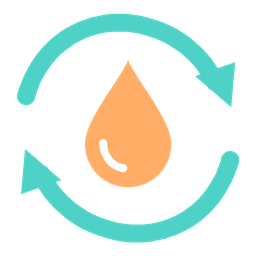
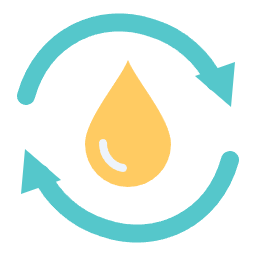
Match circulation branding and UI colors to EOS palette

diff --git a/frontend/src/assets/styles/panel.css b/frontend/src/assets/styles/panel.css
@@ -29,48 +29,6 @@
 
 .app-shell {
   font-family: Inter, "Segoe UI", Arial, sans-serif;
-  color-scheme: light;
-  --bg: #f4f6f5;
-  --surface: #fff;
-  --soft: #f7f9f8;
-  --ink: #20332f;
-  --muted: #6d7d76;
-  --line: #e3e9e6;
-  --accent: #25796b;
-  --accent-soft: #eaf4ef;
-  --orange: #bd7840;
-  --orange-soft: #fcf1e5;
-  --heat0: #edf1ee;
-  --heat1: #dbe8e0;
-  --heat2: #b8d4c3;
-  --heat3: #7fb59b;
-  --heat4: #41866e;
-  --heat5: #22644e;
-  --header: rgba(255, 255, 255, .97)
-}
-
-.app-shell[data-theme=dark] {
-  color-scheme: dark;
-  --bg: #111419;
-  --surface: #1a1e25;
-  --soft: #20252d;
-  --ink: #e8edf3;
-  --muted: #a1aab7;
-  --line: #303640;
-  --accent: #83b7d5;
-  --accent-soft: #223442;
-  --orange: #ecb47d;
-  --orange-soft: #392e23;
-  --heat0: #23382f;
-  --heat1: #2b4939;
-  --heat2: #3c664c;
-  --heat3: #508a66;
-  --heat4: #72ad87;
-  --heat5: #a0cead;
-  --header: rgba(26, 30, 37, .97)
-}
-
-.app-shell {
   display: flex;
   flex-direction: column;
   height: 100%;
@@ -208,8 +166,8 @@ h1 {
 }
 
 .header-inner nav a.active {
-  color: var(--accent);
-  background: var(--accent-soft);
+  color: var(--ink);
+  background: var(--soft);
   font-weight: 600
 }
 
@@ -328,7 +286,7 @@ select option {
   background: var(--surface);
   border: 1px solid var(--line);
   border-radius: 12px;
-  box-shadow: 0 4px 24px #17392c04
+  box-shadow: 0 4px 24px rgb(16 21 29 / .02)
 }
 
 .status-banner {
@@ -419,16 +377,16 @@ select option {
 }
 
 .status-banner.warning .status-label {
-  color: var(--orange)
+  color: var(--warn)
 }
 
 .status-banner.warning .status-dot {
-  background: var(--orange)
+  background: var(--warn)
 }
 
 .status-banner.warning .status-illustration {
-  background: var(--orange-soft);
-  color: var(--orange)
+  background: var(--warn-bg);
+  color: var(--warn)
 }
 
 .status-banner.monitor .status-label {
@@ -632,7 +590,7 @@ select option {
 
 .permission {
   height: 3px;
-  background: #538c9c;
+  background: var(--accent);
   position: absolute;
   bottom: 1px;
   left: 0;
@@ -680,7 +638,7 @@ select option {
 .line-key {
   width: 13px;
   height: 3px;
-  background: #538c9c;
+  background: var(--accent);
   border-radius: 2px
 }
 
@@ -1135,7 +1093,7 @@ select option {
   background: var(--header);
   border: 1px solid var(--line);
   backdrop-filter: blur(12px);
-  box-shadow: 0 6px 26px #102b1510;
+  box-shadow: 0 6px 26px rgb(16 21 29 / .06);
   border-radius: 10px;
   margin-top: 21px;
   padding: 14px 18px;
@@ -1169,9 +1127,9 @@ select option {
 }
 
 .primary-button {
-  background: var(--ink);
-  color: var(--surface);
-  border: 1px solid var(--ink);
+  background: var(--accent);
+  color: var(--on-accent);
+  border: 1px solid var(--accent);
   padding: 9px 15px;
   border-radius: 7px;
   font-size: 11px;
@@ -1344,7 +1302,7 @@ select option {
 }
 
 .error-message {
-  color: #b35b46;
+  color: var(--crit);
   font-size: 11px;
   padding: 12px 0 2px
 }
@@ -1401,7 +1359,7 @@ dialog {
 }
 
 dialog::backdrop {
-  background: #12262066;
+  background: rgb(16 21 29 / .4);
   backdrop-filter: blur(3px)
 }
 
@@ -2090,8 +2048,8 @@ dialog .primary-button {
 }
 
 .error {
-  border: 1px solid #b868514f;
-  background: var(--orange-soft);
+  border: 1px solid var(--crit);
+  background: var(--crit-bg);
   color: var(--ink);
   padding: 15px 18px;
   border-radius: 9px;
@@ -2306,11 +2264,11 @@ fieldset {
 
 .heatmap .no-data {
   background: var(--soft);
-  background-image: repeating-linear-gradient(135deg, transparent, transparent 3px, #8b97a91b 3px, #8b97a91b 4px)
+  background-image: repeating-linear-gradient(135deg, transparent, transparent 3px, color-mix(in srgb, var(--muted) 10%, transparent) 3px, color-mix(in srgb, var(--muted) 10%, transparent) 4px)
 }
 
 .heatmap .provisional {
-  background-image: repeating-linear-gradient(135deg, transparent, transparent 3px, #a9afb866 3px, #a9afb866 4px)
+  background-image: repeating-linear-gradient(135deg, transparent, transparent 3px, color-mix(in srgb, var(--muted) 40%, transparent) 3px, color-mix(in srgb, var(--muted) 40%, transparent) 4px)
 }
 
 .heatmap .allowed-window, .heatmap .planned-run {
@@ -2324,7 +2282,7 @@ fieldset {
 .allowed-window {
   height: 3px;
   bottom: 1px;
-  background: #538c9c
+  background: var(--accent)
 }
 
 .planned-run {
@@ -2371,7 +2329,7 @@ fieldset {
 
 .legend .legend-allowed {
   height: 3px !important;
-  background: #538c9c
+  background: var(--accent)
 }
 
 .legend .legend-planned {
@@ -2435,8 +2393,8 @@ fieldset {
 }
 
 .history-status button {
-  background: var(--ink);
-  color: var(--surface);
+  background: var(--accent);
+  color: var(--on-accent);
   border-radius: 7px;
   padding: 10px 14px;
   font-size: 12px
@@ -2528,26 +2486,17 @@ fieldset {
   }
 }
 
-.app-shell[data-theme=dark] {
-  --heat0: #242a33;
-  --heat1: #2d3c4e;
-  --heat2: #405a73;
-  --heat3: #557a9c;
-  --heat4: #76a1c2;
-  --heat5: #a5c6e0
-}
-
 .status-banner.error-state .status-label {
-  color: #c46b5c
+  color: var(--crit)
 }
 
 .status-banner.error-state .status-dot {
-  background: #c46b5c
+  background: var(--crit)
 }
 
 .status-banner.error-state .status-illustration {
-  color: #c46b5c;
-  background: var(--orange-soft)
+  color: var(--crit);
+  background: var(--crit-bg)
 }
 
 .app-shell[data-theme=dark] .surface { box-shadow: none; }

diff --git a/frontend/src/assets/styles/theme.css b/frontend/src/assets/styles/theme.css
@@ -1,0 +1,61 @@
+/* EOS palette, source commit 7e1717b74c96156b95762fbcf98e815610ffe1d0.
+   See branding/README.md for source links and the semantic mapping. */
+.app-shell {
+  color-scheme: light;
+  --brand-turquoise: #55c7cb;
+  --brand-gold: #ffcb62;
+  --bg: #eef2f6;
+  --surface: #fff;
+  --surface2: #f4f7fb;
+  --ink: #162231;
+  --dim: #4f6075;
+  --edge: #d4dee9;
+  --accent: #185da4;
+  --solar: #956400;
+  --heat: #a54723;
+  --ok: #277448;
+  --ok-bg: #e3f3e9;
+  --warn: #8a5a00;
+  --warn-bg: #fff3d6;
+  --crit: #b42318;
+  --crit-bg: #fde8e6;
+  --info: #185da4;
+  --info-bg: #e4effb;
+  --on-accent: #fff;
+  --soft: var(--surface2);
+  --muted: var(--dim);
+  --line: var(--edge);
+  --accent-soft: var(--info-bg);
+  --orange: var(--heat);
+  --orange-soft: var(--warn-bg);
+  --header: var(--surface);
+  /* The circulation-specific scale is derived from the EOS accent. */
+  --heat0: var(--surface2);
+  --heat1: color-mix(in srgb, var(--accent) 20%, var(--surface2));
+  --heat2: color-mix(in srgb, var(--accent) 40%, var(--surface2));
+  --heat3: color-mix(in srgb, var(--accent) 60%, var(--surface2));
+  --heat4: color-mix(in srgb, var(--accent) 80%, var(--surface2));
+  --heat5: var(--accent);
+}
+
+.app-shell[data-theme=dark] {
+  color-scheme: dark;
+  --bg: #10151d;
+  --surface: #181f2a;
+  --surface2: #202938;
+  --ink: #eef4fc;
+  --dim: #a7b6ca;
+  --edge: #303c50;
+  --accent: #8ec5ff;
+  --solar: #ffcb62;
+  --heat: #ffac83;
+  --ok: #75dba0;
+  --ok-bg: #16302a;
+  --warn: #ffd27a;
+  --warn-bg: #33290f;
+  --crit: #ff8a80;
+  --crit-bg: #3a1a1a;
+  --info: #8ec5ff;
+  --info-bg: #172a40;
+  --on-accent: #0b1420;
+}

diff --git a/frontend/src/main.ts b/frontend/src/main.ts
@@ -4,6 +4,7 @@ import { useHomeAssistantPanel } from './composables/useHomeAssistantPanel'
 import { useSidebarSwipe } from './composables/useSidebarSwipe'
 import { createPanelRouter } from './router'
 import type { ControlSettings, HomeAssistant } from './types'
+import './assets/styles/theme.css'
 import './assets/styles/panel.css'
 
 // The custom-element bridge only mounts Vue and forwards the HA connection.

diff --git a/branding/README.md b/branding/README.md
@@ -1,7 +1,8 @@
 # Projektlogo
 
-Eigenes Symbol für die Warmwasser-Zirkulation: orangefarbener Wassertropfen und
-petrolfarbene Zirkulationspfeile. Keine Markenbestandteile von Home Assistant.
+Eigenes Symbol für die Warmwasser-Zirkulation: goldener Wassertropfen (`#FFCB62`) und
+türkise Zirkulationspfeile (`#55C7CB`). Die Farben entsprechen EOS Energiezentrale.
+Keine Markenbestandteile von Home Assistant.
 Die SVG-Dateien unter `frontend/src/assets/images/` sind bearbeitbare Vektorquellen; sie gehören wie der übrige
 Projektcode zur Apache-2.0-Lizenz dieses Repositorys.
 
@@ -25,3 +26,36 @@ Konturen für `warmwasser:circulation`. Dieselben Pfade in
 `custom_components/warmwasser_zirkulation/icons.js` aktuell halten. Das Menü nutzt
 HAs native Iconfarben; die Tropfenform ist der sekundäre Pfad. Dieses kleine Modul
 wird global geladen und benötigt weder die Vue-App noch Betriebsdaten.
+
+## Gemeinsame Farbpalette mit EOS
+
+Referenz ist [EOS Energiezentrale, Commit 7e1717b](https://github.com/szech77/HA_EOS_Akkodoktor_Energiezentrale/tree/7e1717b74c96156b95762fbcf98e815610ffe1d0):
+[Markenfarben](https://github.com/szech77/HA_EOS_Akkodoktor_Energiezentrale/blob/7e1717b74c96156b95762fbcf98e815610ffe1d0/BRANDING.md),
+[UI-Farbwerte](https://github.com/szech77/HA_EOS_Akkodoktor_Energiezentrale/blob/7e1717b74c96156b95762fbcf98e815610ffe1d0/custom_components/eos_energiezentrale/energy/web/style.css).
+Die Werte liegen zentral in `frontend/src/assets/styles/theme.css`.
+
+| Verwendung | Hell | Dunkel |
+| --- | --- | --- |
+| Hintergrund | `#EEF2F6` | `#10151D` |
+| Karten / Titelleiste | `#FFFFFF` | `#181F2A` |
+| Sekundäre Fläche | `#F4F7FB` | `#202938` |
+| Text | `#162231` | `#EEF4FC` |
+| Sekundärer Text | `#4F6075` | `#A7B6CA` |
+| Rahmen | `#D4DEE9` | `#303C50` |
+| Aktion / Information | `#185DA4` | `#8EC5FF` |
+| Warnung | `#8A5A00` | `#FFD27A` |
+| Fehler | `#B42318` | `#FF8A80` |
+
+Das Tropfenmotiv bleibt eigenständig. Die Lichtreflexion verwendet den dunklen
+bzw. hellen EOS-Vordergrund. Auch die primären Buttons übernehmen die zugehörige
+EOS-Kontrastfarbe (`--on-accent`). Die integrationsspezifische Heatmap mischt
+EOS-Akzent und sekundäre Fläche, statt eine zweite Farbpalette einzuführen.
+Grün ist ausschließlich als semantische Erfolgsfarbe definiert; die dunklen
+Grundflächen enthalten keinen Grünstich.
+Die monochrome native HA-Seitenleiste übernimmt weiterhin HAs Themefarben.
+
+PNG-Exporte reproduzierbar erzeugen (installiertes Chrome/Chromium, alternativ
+`CHROME_BIN` setzen): im Ordner `frontend` den Befehl `npm run brand:render`
+ausführen. Der Export verwendet nur die beiden lokalen SVG-Quellen und ein
+isoliertes, temporäres Browserprofil; es werden keine Dateien heruntergeladen.
+Danach `npm run build` ausführen und den vollständigen Integrationsordner kopieren.

diff --git a/CHANGELOG.md b/CHANGELOG.md
@@ -25,6 +25,7 @@ Das Format orientiert sich an [Keep a Changelog](https://keepachangelog.com/de/1
 
 ### Bugfixes
 
+- Logo und Oberfläche farblich an EOS Energiezentrale angleichen: Türkis/Gold im Tropfenlogo sowie identische Hell-/Dunkelwerte für Flächen, Texte, Rahmen, Aktionen und Statusanzeigen. Die Heatmap aus den EOS-Akzentfarben ableiten und transparente HA-Brand-Dateien neu exportieren.
 - Den Menübutton mit drei horizontalen Strichen aus der Panel-Titelleiste entfernen. Das native HA-Seitenmenü weiterhin über die Wischgeste vom linken Rand öffnen.
 - Die Titelleiste als feste Layoutzeile außerhalb des scrollbaren Seiteninhalts halten. Die Panelhöhe auch bei unbestimmten HA-Elternhöhen begrenzen; Übersicht und Einstellungen bis zum Seitenende mit Mausrad und Touchpad prüfen.
 - Den nativen Scrollbereich in den Shadow-DOM-Inhalt des Panels verlegen, damit Mausrad und Zwei-Finger-Touchpad-Scrollen auch bei einem von HA begrenzten äußeren Custom-Element funktionieren. Feste Titelleiste, horizontales Scrollen der Heatmap und Zurücksetzen der Scrollposition beim Seitenwechsel erhalten; Browser-Regression mit echten Rad-Deltas in der CI ergänzen.
